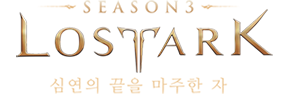
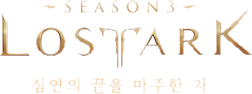
스타일 수정

diff --git a/style.css b/style.css
@@ -212,6 +212,11 @@ html[data-theme="dark"] main.main-content a:hover {
     font-family: var(--font-body);
     font-size: var(--fs-cap);
     cursor: pointer;
+    transition: border-color .15s ease, color .15s ease, transform .1s ease;
+}
+
+.search-trigger:active {
+    transform: scale(0.97);
 }
 
 .search-trigger:hover {
@@ -248,6 +253,10 @@ html[data-theme="dark"] main.main-content a:hover {
     cursor: pointer;
     font-size: 0.95rem;
     line-height: 1;
+    transition: border-color .15s ease, transform .1s ease;
+}
+.theme-toggle:active {
+    transform: scale(0.92);
 }
 
 .theme-toggle:hover {
@@ -281,14 +290,18 @@ html[data-theme="dark"] .theme-ico--sun {
     color: var(--text-muted);
     font-size: 1rem;
     line-height: 1.3;
+    transition: background .15s ease, color .15s ease, border-color .15s ease, transform .1s ease;
 }
 
 .spine-row:hover {
     color: var(--text);
     text-decoration: none;
     background: var(--surface-2);
+    transform: translateX(2px);
 }
-
+.spine-row:active {
+    transform: translateX(2px) scale(0.98);
+}
 .spine-badge {
     flex: none;
     display: inline-flex;
@@ -1236,19 +1249,19 @@ details img {
     }
 }
 
-/* ---------- 13. 모션 절제 ---------- */
-.spine-row,
-.page-toc-link,
-.search-trigger,
-.theme-toggle {
-    transition: color .12s ease, background-color .12s ease, border-color .12s ease;
-}
+
 
 @media (prefers-reduced-motion: reduce) {
     html {
         scroll-behavior: auto;
     }
-
+    /* ---------- 13. 모션 절제 ---------- */
+    .spine-row,
+    .page-toc-link,
+    .search-trigger,
+    .theme-toggle {
+        transition: color .12s ease, background-color .12s ease, border-color .12s ease;
+    }
     *,
     *::before,
     *::after {

diff --git a/templates/template.html b/templates/template.html
@@ -69,7 +69,7 @@
             <div class="gnb__header">
         <h1 class="gnb__bi">
             <a href="index.html" class="gnb__bi-link">
-                <img src="https://cdn-lostark.game.onstove.com/2018/obt/assets/images/common/guide/bi-lostark.png" alt="Lostark">
+                <img src="https://raw.githubusercontent.com/N84jld3qhj/2026_winter_loaon_guide/main/images/bi-lostark.png" alt="Lostark">
             </a>
         </h1>
     </div>
